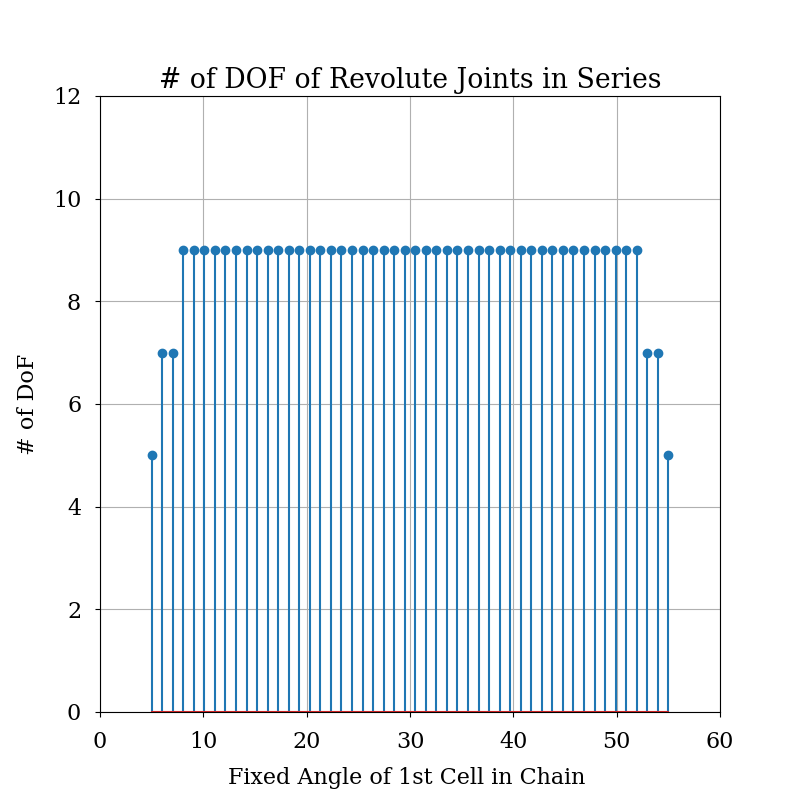
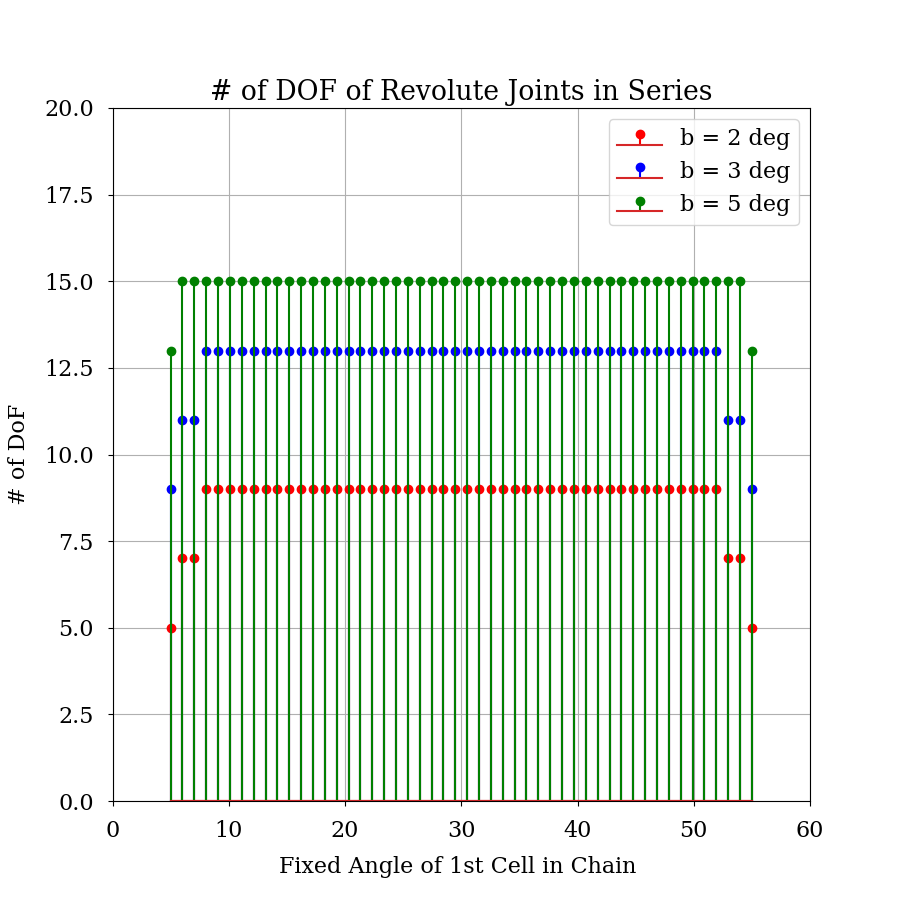
DO distance calc

diff --git a/main_1D_dofs.py b/main_1D_dofs.py
@@ -8,7 +8,7 @@ import matplotlib.pyplot as plt
 # min(myList, key=lambda x:abs(x-myNumber))
 
 font = {'family': 'serif',
-        'size': 16}
+        'size': 20}
 csfont = {'fontname': 'Helvetica'}
 
 matplotlib.rc('font', **font)
@@ -24,7 +24,7 @@ def main():
     return 0
 
 
-def set_1D_chain(N, L_list, angle, fixed_dict):
+def set_1D_chain(N, L_list, angle, fixed_dict, gap):
     """
     Set a 1D chain of revolute joints with lengths L_list and initial angles angle_list
     :param N: Number of cells
@@ -34,10 +34,10 @@ def set_1D_chain(N, L_list, angle, fixed_dict):
     :return: x and y of each cell in chain, angle_list
     """
     # Assume fixed gap leading to 5 deg range between cells, full range is 60 deg
-    gap = 2  # degrees
+    # b = 2  # degrees
     full_range = 60
     # angle list is modified once the fixed_dict is parsed, starts fully collapsed at full_range
-    angle_list = [full_range for i in range(N)]
+    angle_list = [full_range for _ in range(N)]
     top_angle_list = []
     bottom_angle_list = []
     # Begin by setting full free chain, first cell at x=0, y=0
@@ -66,7 +66,7 @@ def set_1D_chain(N, L_list, angle, fixed_dict):
     for count2, i in enumerate(angles, 0):
         closest_fixed_cell = min(list(fixed_dict.keys()), key=lambda x: abs(x - count2))
         # Determine distance from each cell to fixed cell and add backlash according to ReLU relationship
-        distance_to_fixed = abs(count2 - closest_fixed_cell)
+        distance_to_fixed = L_list[0]*abs(count2 - closest_fixed_cell)
 
         # set upper and lower angle bounds for each element
         if count2 not in fixed_dict.keys():
@@ -128,36 +128,75 @@ if __name__ == '__main__':
     # Set specific case variables
     N = 20
     Ls = [1, 1, 1, 1, 1, 1, 1, 1, 1, 1, 1, 1, 1, 1, 1, 1, 1, 1, 1, 1]
+    Ls_2 = [2 for i in range(20)]
+    L2_3 = [3 for i in range(20)]
     angle = [10]
+    b = [1, 2, 3] # degrees
     fixs_dict = {0: 30, 19: 30}
-    x, y, a, ta, ba = set_1D_chain(N, Ls, angle, fixed_dict=fixs_dict)
-    plot_chain(x=x, y=y, top_angle_list=ta, bottom_angle_list=ba)
+    for backlash in b:
+        x, y, a, ta, ba = set_1D_chain(N, Ls, angle, fixed_dict=fixs_dict, gap=backlash)
+        plot_chain(x=x, y=y, top_angle_list=ta, bottom_angle_list=ba)
     # Generate angle amplitude to DoF plot
     dof_count = get_DoF_from_chain(top_angle_list=ta, bottom_angle_list=ba)
     print(dof_count)
     angle_settings = list(np.linspace(5, 55, 50))
-    dof_result = []
-    # run only one cell fixed
-    for angle in angle_settings:
-        fixs_dict = {10: angle}
-        x, y, a, ta, ba = set_1D_chain(N, Ls, angle, fixed_dict=fixs_dict)
-        plot_chain(x=x, y=y, top_angle_list=ta, bottom_angle_list=ba)
-        # Generate angle amplitude to DoF plot
-        print("Angle of single, center cell in 20 cell chain: {}".format(angle))
-        dof_count = get_DoF_from_chain(top_angle_list=ta, bottom_angle_list=ba)
-        print("DoF Count: {}".format(dof_count))
-        dof_result.append(dof_count)
 
-    fig = plt.figure(4, figsize=(8, 8))
+    dof_result = [[], [], []]
+    DO_number = []
+    # run only one cell fixed
+    for count, backlash in enumerate(b, 0):
+        for angle in angle_settings:
+            fixs_dict = {10: angle}
+            x, y, a, ta, ba = set_1D_chain(N, Ls_2, angle, fixed_dict=fixs_dict, gap=backlash)
+            plot_chain(x=x, y=y, top_angle_list=ta, bottom_angle_list=ba)
+            # Generate angle amplitude to DoF plot
+            print("Angle of single, center cell in 20 cell chain: {}".format(angle))
+            dof_count = get_DoF_from_chain(top_angle_list=ta, bottom_angle_list=ba)
+            print("DoF Count: {}".format(dof_count))
+            dof_result[count].append(dof_count)
+    # DO distance
+    a1 = 20 - max(dof_result[0])
+    a2 = 20 - max(dof_result[1])
+    a3 = 20 - max(dof_result[2])
+    print(a1, a2, a3)
+
+    # DOF result figure
+    fig = plt.figure(4, figsize=(10, 10))
     ax = fig.add_subplot()
-    plt.stem(angle_settings, dof_result)
+    plt.stem(angle_settings, dof_result[0], 'r', label="dθ = 1 deg")
+    plt.stem(angle_settings, dof_result[1], 'b', label="dθ = 2 deg")
+    plt.stem(angle_settings, dof_result[2], 'g', label="dθ = 3 deg")
     plt.title("# of DOF of Revolute Joints in Series")
     plt.xlabel("Fixed Angle of 1st Cell in Chain ")
     plt.ylabel("# of DoF")
     plt.xlim((0, 60))
-    plt.ylim((0, 12))
+    plt.ylim((0, 20))
     ax.xaxis.labelpad = 10
     ax.yaxis.labelpad = 10
+    plt.legend()
+    plt.xlim([0,30])
     ax.tick_params(axis='both', which='major', pad=10)
     plt.grid()
-    plt.savefig("dof_to_angle_relation 20 deg 20 cells.png")
+    plt.savefig("dof_to_angle_relation 1 Ls.png")
+
+    # DO range
+
+    # hardcoded example
+    # fig = plt.figure(5, figsize=(10, 10))
+    # ax = fig.add_subplot()
+    # y1 = np.polyfit(angle_settings, [(9-i)/9 for i in dof_result[0]], 3)
+    # y2 = np.polyfit(angle_settings, [(9-i)/9 for i in dof_result[1]], 3)
+    # y3 = np.polyfit(angle_settings, [(9-i)/9 for i in dof_result[2]], 3)
+    # plt.plot(angle_settings, y1, 'r', label="dθ = 1 deg")
+    # plt.plot(angle_settings, y2, 'b', label="dθ = 2 deg")
+    # plt.plot(angle_settings, y3, 'g', label="dθ = 3 deg")
+    # plt.title("Effect on Range for Joints in Series")
+    # plt.xlabel("Distance from i=0")
+    # plt.ylabel("Range of Motion Remaining")
+    # ax.xaxis.labelpad = 10
+    # ax.yaxis.labelpad = 10
+    # plt.legend()
+    # plt.xlim([0,30])
+    # ax.tick_params(axis='both', which='major', pad=10)
+    # plt.grid()
+    # plt.savefig("dof_to_angle die off.png")
